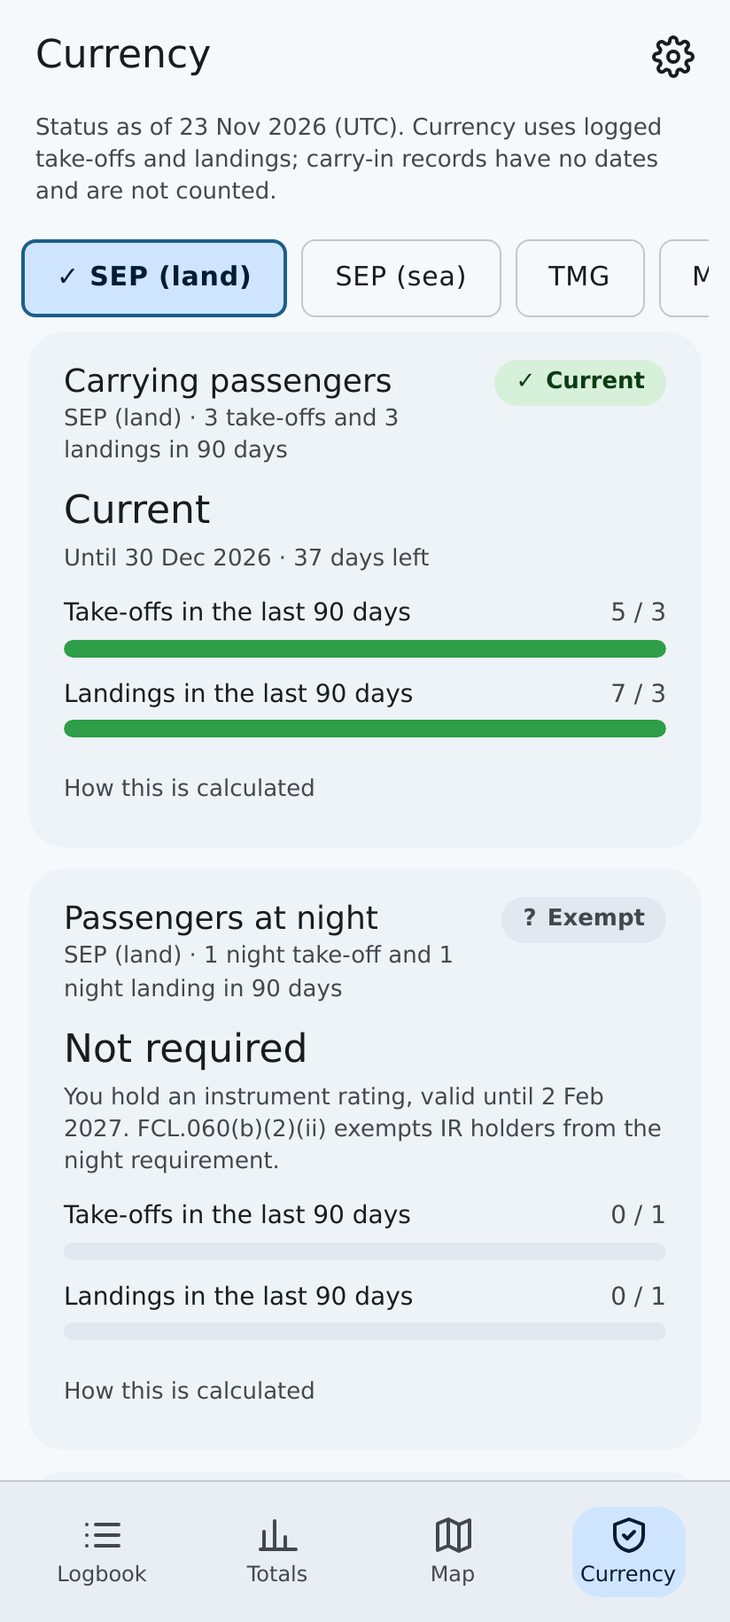
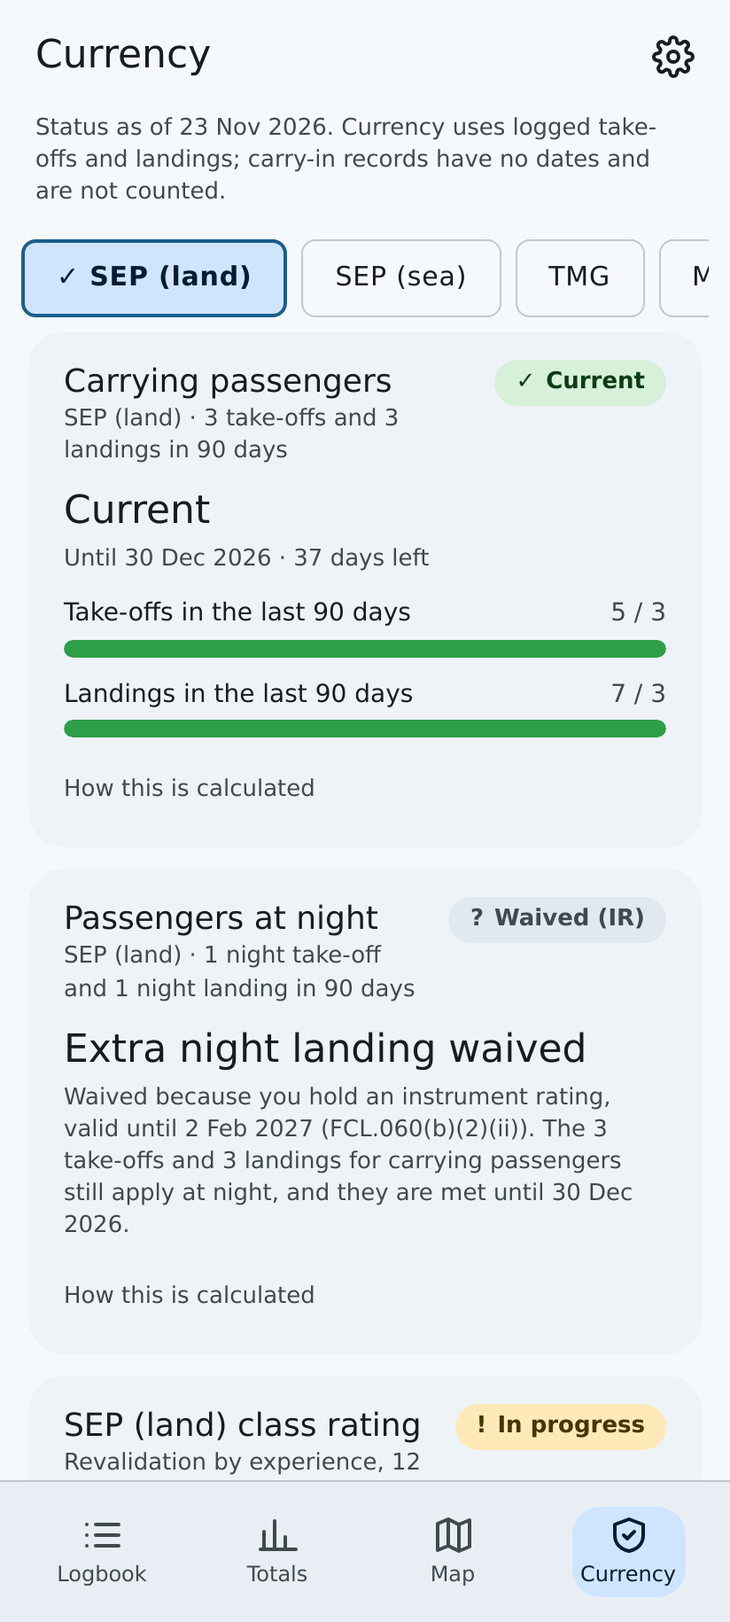
README and known issues: correct what the review found; new screenshots
From re-checking the README against the code and the EASA text:
- Route sectors: FCL.010 defines them; the paragraph saying Part-FCL
  never does is replaced by how marking works. Same for the type-rating
  sectors, the MEP alert, and known-issues.md.
- The "checked word by word on 23 November" claim is replaced by what
  was re-checked on 24 November, against which revision.
- "Each is noted on the card it would belong to" was false for the
  instructor and examiner certificates, mountain rating and towing;
  it now says which are noted and where, plus FCL.060(b)(4) and (c).
- Part-FCL does name some class ratings (FCL.740.A).
- Node: Vite 8 needs 20.19+ or 22.12+, not "20 or newer".
- PICUS/SPIC time goes in the PIC column and is marked in the remarks.
- The IR waives only the extra night landing (passengers at night,
  alerts); a backup sign-in is never "silent"; an import fills empty
  settings while "replace everything" restores them.
- New "Route sector" bullet under Logging a flight.

The screenshots predated the night-card rewording, the take-off and
landing icons and route sectors; the currency caption described a
lapsed night currency the image never showed. Regenerated with the
documented steps (same three Commons photos, so the credits stand);
captions rewritten from the new images. pdf-logbook.png is unchanged:
nothing here changes the PDF.

Claude-Session: https://claude.ai/code/session_01G3EEp2Uvip7EYmMHXPEuAB

diff --git a/README.md b/README.md
@@ -10,17 +10,17 @@ The Android phone is the master logbook; the same app in a desktop browser is a 
 **The regulatory numbers are checked against the EASA text** — see [Totals and currency](#totals-and-currency) for what was checked, against which revision, and what the app still cannot know.
 
 ## Screenshots
-Every screenshot shows an **invented** logbook: a fictional pilot, with flights, times, remarks and people that are made up. The airports and routes are real. Night time and the day/night take-offs and landings were calculated by the app itself, and the currency and rating states are the app's own, not mock-ups &mdash; the demo logbook is seeded so that SEP (land) has its revalidation experience met, MEP (land) has its proficiency-check window open, SET (land) has expired, a valid instrument rating makes night currency not required, two type ratings sit at different stages, and the medical is inside its 45-day revalidation window. **Flight, Totals, Map and Alerts are in dark mode and the map is on "Aviation magenta"**, so the theme setting and the map colour options are visible rather than just described; the rest are light.
+Every screenshot shows an **invented** logbook: a fictional pilot, with flights, times, remarks and people that are made up. The airports and routes are real. Night time and the day/night take-offs and landings were calculated by the app itself, and the currency and rating states are the app's own, not mock-ups &mdash; the demo logbook is seeded so that SEP (land) has its revalidation experience met, MEP (land) has its proficiency-check window open, SET (land) has expired, a valid instrument rating waives the extra night landing, the cross-country multi-engine and King Air flights are marked as route sectors, two type ratings sit at different stages, and the medical is inside its 45-day revalidation window. **Flight, Totals, Map and Alerts are in dark mode and the map is on "Aviation magenta"**, so the theme setting and the map colour options are visible rather than just described; the rest are light.
 
 They are all **reproducible**: `scripts/make-demo-logbook.ts` writes the logbook from a fixed seed, and `scripts/make-screenshots.mjs` drives a real build of the app in headless Chromium with the clock pinned to the demo's date, so re-running them gives the same images. See [Regenerating the screenshots](#regenerating-the-screenshots). The aircraft photos are real ones the app looked up on Wikimedia Commons, under free licences, credited [below](#photo-credits).
 
 | Logbook | Flight | New flight |
 |---|---|---|
-| <img src="docs/screenshots/logbook.png" alt="Logbook list with total hours, flight count and recent flights" width="260"> | <img src="docs/screenshots/flight.png" alt="Detail of one flight: route, times, PIC time, take-offs, landings and night time" width="260"> | <img src="docs/screenshots/new-flight.png" alt="New flight form with off-blocks, on-blocks and total time filled in, and the airport names looked up" width="260"> |
+| <img src="docs/screenshots/logbook.png" alt="Logbook list with total hours, flight count and recent flights" width="260"> | <img src="docs/screenshots/flight.png" alt="Detail of one flight: route, times, PIC time flown as student pilot-in-command, take-offs and landings" width="260"> | <img src="docs/screenshots/new-flight.png" alt="New flight form with off-blocks, on-blocks and total time filled in, and the airport names looked up" width="260"> |
 | **Totals** | **Currency** | **Map** |
-| <img src="docs/screenshots/totals.png" alt="Totals: flight time, pilot function breakdown and simulator time" width="260"> | <img src="docs/screenshots/currency.png" alt="Currency for SEP (land): passengers current, night currency lapsed, with the one night take-off and landing the regulation requires" width="260"> | <img src="docs/screenshots/map.png" alt="Map of airports and routes flown, on the built-in basemap" width="260"> |
+| <img src="docs/screenshots/totals.png" alt="Totals: flight time, pilot function breakdown and simulator time" width="260"> | <img src="docs/screenshots/currency.png" alt="Currency for SEP (land): passengers current, and the extra night landing waived by a valid instrument rating, with the passenger requirement it does not waive" width="260"> | <img src="docs/screenshots/map.png" alt="Map of airports and routes flown, on the built-in basemap" width="260"> |
 | **Class rating revalidation** | **Your licence** | **Alerts** |
-| <img src="docs/screenshots/currency-rating.png" alt="MEP (land) class rating: proficiency check due, with the route-sector counter at 2 of 10" width="260"> | <img src="docs/screenshots/licence.png" alt="Your licence section: instrument rating with its check window open, two type ratings with separate expiry dates, and the medical certificate" width="260"> | <img src="docs/screenshots/alerts.png" alt="Settings: alerts for currency and ratings switched on, with the night-currency option and a test notification button" width="260"> |
+| <img src="docs/screenshots/currency-rating.png" alt="MEP (land) class rating: proficiency check due, with 2 of the 10 route sectors marked and the FCL.010 definition" width="260"> | <img src="docs/screenshots/licence.png" alt="Your licence section: instrument rating with its check window open, and a type rating with its route sectors and the one flight not yet marked" width="260"> | <img src="docs/screenshots/alerts.png" alt="Settings: alerts for currency and ratings switched on, with the night-currency option and a test notification button" width="260"> |
 | **Holder details for the PDF** | | |
 | <img src="docs/screenshots/export.png" alt="Export screen: holder name, licence number and address, and the Create PDF button" width="260"> | | |
 
@@ -56,7 +56,7 @@ Because those two screenshots contain the photos in changed form, **`docs/screen
 `flight.png` holds only the Cessna, which is already CC BY-SA 4.0. `logbook.png` also holds the Archer, which is CC BY-SA 2.0, and 4.0 is the one licence that covers the mixture: [CC BY-SA 2.0 §4(b)](https://creativecommons.org/licenses/by-sa/2.0/legalcode) lets a derivative work be distributed under "a later version of this License with the same License Elements", and CC BY-SA 4.0 is exactly that (Attribution, ShareAlike).
 
 ## Setup
-Node 20 or newer (Vite 8 and TypeScript 7; CI uses Node 20).
+Node 20.19+ or 22.12+ (what Vite 8 requires; CI uses Node 20, which resolves to the latest 20.x).
 ```
 npm install
 npm run dev          # http://localhost:5173
@@ -76,8 +76,9 @@ Copy `.env.example` to `.env.local` to override `VITE_BASE` (default `/`) or set
 ## Logging a flight
 - **All times are UTC** (off-blocks / on-blocks). The take-off date is the date column of the logbook. The **landing date** follows automatically: the same day, or the next day when the on-blocks time is earlier than off-blocks (the flight crossed midnight UTC). It can be set by hand for anything else (a flight over 24 h gets a warning; a landing before take-off is refused). Saved flights that landed on a later UTC date show **+1** after the landing time.
 - **Aircraft are remembered by registration.** Typing a registration you have flown fills in make, model, variant, class and pilot-time category. Each flight keeps its own copy of those details; the remembered ones follow the aircraft's most recent flight, so correcting an old entry never changes what is filled in today. There are no suggestion lists: a new flight starts with the last aircraft, the last pilot in command and "From" set to where the last flight landed.
-- **Classes**: SEP (land/sea), TMG, MEP (land/sea), SET (single-engine turbine, land/sea) and Other. Those seven are exactly the aeroplane class ratings in the EASA [Class and Type Rating & Licence Endorsement List](https://www.easa.europa.eu/en/downloads/11737/en) (Part-FCL only refers to class ratings, it never names them); "Other" is for type-rated aeroplanes and anything that is not an aeroplane class rating. A class that contradicts the pilot-time category (an MEP flight logged as single-engine, or a single-engine class logged as multi-engine) gets a warning, never a block.
-- **Pilot function**: PIC / COPI / DUAL / INS chips (selected ones are filled and ticked); their time defaults to the total. The chips and +/− counters do not take the focus from a text field, so one tap works while the keyboard is open.
+- **Classes**: SEP (land/sea), TMG, MEP (land/sea), SET (single-engine turbine, land/sea) and Other. Those seven are exactly the aeroplane class ratings in the EASA [Class and Type Rating & Licence Endorsement List](https://www.easa.europa.eu/en/downloads/11737/en) (Part-FCL names some of them in passing, in FCL.740.A, but never lists them all); "Other" is for type-rated aeroplanes and anything that is not an aeroplane class rating. A class that contradicts the pilot-time category (an MEP flight logged as single-engine, or a single-engine class logged as multi-engine) gets a warning, never a block.
+- **Pilot function**: PIC / COPI / DUAL / INS chips (selected ones are filled and ticked); their time defaults to the total. The chips and +/− counters do not take the focus from a text field, so one tap works while the keyboard is open. PICUS and SPIC time is entered as PIC (AMC1 FCL.050), countersigned in the remarks; the form says so when PICUS or SPIC is ticked without PIC.
+- **Route sector**: on a multi-engine or type-rated flight, a toggle records that the flight was a route sector as FCL.010 defines one (take-off to landing with at least 15 minutes of cruise). The logbook does not record the cruise, so this is never guessed; see [route sectors](#totals-and-currency) below.
 
 ## Install on Android
 Open the deployed HTTPS URL in Chrome → ⋮ menu → **Install app** (or "Add to Home screen"). It then starts full-screen and works offline.
@@ -94,21 +95,21 @@ On first start choose **This device is the master logbook**; the app then asks t
 Setup: [docs/google-cloud-setup.md](docs/google-cloud-setup.md) (consent screen in Testing mode, you as test user, every hosting origin as an authorised JavaScript origin). The client ID goes in `VITE_GOOGLE_CLIENT_ID`.
 - **Device roles are explicit** (Settings → "This device is the master logbook"), never inferred from screen size. Only the master can edit, and only the master writes to Drive. A viewer is built with a read-only Drive client that has no write operations at all.
 - **One master only.** The master keeps `master.json` (device id, name, claim time) in the "Logbook backups" folder. Taking the role from another device shows who holds it and requires explicit confirmation. If Drive holds a *newer snapshot from another device*, the dialog recommends restoring it first, because taking over with older data would make the older data the newest backup. Before every backup the master re-reads `master.json`; if another device has taken over, nothing is written and a banner offers "Take over again" or "Make this device a viewer".
-- **Backups** are timestamped JSON snapshots carrying the schema version (`flightbook-snapshot-YYYYMMDDTHHMMSSZ.json`); one is kept per day (the last of that day), for the 30 most recent days that have one, so a busy evening of edits leaves one file rather than pushing the older days out, and a few weeks without flying never empties the history. Only files with that exact naming are ever deleted. They run on app open (if the last success is over 24 h old), about 20 s after you save changes (a burst of edits makes one backup), when the connection returns, and from "Backup now". The last successful time is shown in Settings. If Google needs a sign-in that cannot be silent, a banner offers "Sign in and back up".
+- **Backups** are timestamped JSON snapshots carrying the schema version (`flightbook-snapshot-YYYYMMDDTHHMMSSZ.json`); one is kept per day (the last of that day), for the 30 most recent days that have one, so a busy evening of edits leaves one file rather than pushing the older days out, and a few weeks without flying never empties the history. Only files with that exact naming are ever deleted. They run on app open (if the last success is over 24 h old), about 20 s after you save changes (a burst of edits makes one backup), when the connection returns, and from "Backup now". The last successful time is shown in Settings. When Google needs you to sign in again, a banner offers "Sign in and back up".
 - **Restore** (master): pick a snapshot, see exactly what would be added, changed and removed, then either replace everything or only add what is missing. Replacing first saves a copy of what is on the device to Drive (`flightbook-prerestore-…`, last 5 kept) and is one all-or-nothing transaction. Those safety copies are listed in the same dialog under **Undo a restore**, so a mistaken restore can be reversed from inside the app.
 - **Viewer**: loads the newest snapshot, runs schema migrations in memory, and shows the list, totals, currency and PDF/CSV export with all editing hidden. A banner reads "Read-only — snapshot from <time>, <device>" with Refresh. The last downloaded snapshot is cached on the device so it opens instantly and offline. The viewer never writes to Drive or changes a snapshot.
 - **Limits**: access tokens last about an hour and the pop-up that renews them needs a tap (see the guide). The app never opens it by itself: a backup or refresh that finds no valid token waits and shows a button instead; in Testing mode Google may ask you to approve again about weekly. This was verified against a fake Google and Drive in two browsers plus a third device; the first real run with your client ID is the part only you can do.
 
 ## Export, import and backup (Settings → Export, import & backup)
 - **PDF logbook**: A4 landscape, the full AMC1 FCL.050 structure — the holder block, all twelve numbered column groups in one table with flights and simulator sessions interleaved by date, per-page totals, totals brought forward (page 1 starts from your previous experience), to-date totals, and a signature/date line. The layout is a pure specification (`src/domain/pdfLayout.ts`: columns, widths, pagination, totals) that the renderer (`src/features/export/pdfRender.ts`) only draws; its printed totals are tested against the Totals screen. Characters the built-in PDF font cannot show are replaced (accents dropped, `Ł`→`L`, otherwise `?`) and cut-off text is shortened; both are counted and reported after creation, and the full text stays in the CSV/JSON. pdf-lib is loaded only when a PDF is created.
-  - **Checked against AMC1 FCL.050 "Pilot logbook"** (ED Decision 2025/022/R, in the [Easy Access Rules for Aircrew](https://www.easa.europa.eu/en/document-library/easy-access-rules/online-publications/easy-access-rules-aircrew), October 2026 revision). All twelve numbered column groups and their order match, as do the three totals rows (TOTAL THIS PAGE / TOTAL FROM PREVIOUS PAGES / TOTAL TIME); PICUS/SPIC go in the remarks and take-offs are not printed because the AMC has no column for either.
+  - **Checked against AMC1 FCL.050 "Pilot logbook"** (ED Decision 2025/022/R, in the [Easy Access Rules for Aircrew](https://www.easa.europa.eu/en/document-library/easy-access-rules/online-publications/easy-access-rules-aircrew), October 2026 revision). All twelve numbered column groups and their order match, as do the three totals rows (TOTAL THIS PAGE / TOTAL FROM PREVIOUS PAGES / TOTAL TIME); PICUS and SPIC time goes in the PIC column, as the AMC asks, and is marked PICUS or SPIC in the remarks, where the AMC wants it countersigned; take-offs are not printed because the AMC has no column for them.
   - **Simulator sessions share the flight table**, as column 11 (FSTD SESSION: date, type, total time of session), which is where the AMC puts them. A session is a row that fills only that group and the remarks, so sessions and flights read as one chronological sequence and session time is totalled in its own column — it can never leak into TOTAL TIME OF FLIGHT.
   - **The holder block** (holder's name(s), licence number, address) is filled in on the Export screen and printed on every page, rather than once on an inside cover, so a loose sheet still identifies its holder. A field you leave empty prints as a blank rule to complete by hand.
   - Fitting all of that on A4 landscape leaves 106 pt for remarks, so text is shrunk, wrapped and finally cut with an ellipsis — and every cut is counted and reported after the PDF is made, with the full text kept in the CSV and JSON exports. `NAME(S) OF PIC` is sized so that even a long surname wraps instead of being cut, since it is a required column; there is a test for it.
   - `TODO(verify)`: FCL.050 only requires the record to be kept "in a form and manner established by the competent authority", and this AMC is one acceptable means rather than the only one — check what your own authority requires before treating the printout as your logbook of record. The AMC header reads `DATE (dd/mm/yy)` where this prints 4-digit years, deliberately.
 - **CSV** (flights, simulator sessions, previous experience; one file each): spreadsheet-friendly and **round-trip exact** (tested with hostile text). Durations are `H:MM`, times are UTC ISO 8601, booleans `yes`/`no`, overrides `;`-separated. Text beginning with `= + - @` is written with a leading apostrophe so a spreadsheet cannot execute it, and the apostrophe is removed again on import. Import accepts files from elsewhere too (required columns: `date, dep_place, dep_time_utc, arr_place, arr_time_utc, registration, make, model, class, total, pic_name`); missing ids and timestamps are generated, a missing single/multi-pilot split is taken as single-pilot SE, and unused columns are listed, never silently dropped. Attachments cannot be held by CSV.
 - **JSON backup**: the holder's details (name, licence number, address) and everything in the logbook, plus a schema version (`SNAPSHOT_SCHEMA_VERSION`, with an in-memory migration chain used by restore and by the read-only viewer). It excludes the airports database, the photo cache and device settings (device name, master role, theme). A backup from a newer app version is refused, not guessed at.
-- **Import and restore never overwrite silently.** Every record is classified before anything is written: *new*, *already there* (identical), *duplicate* (same flight under another id, or repeated in the file: skipped) or *conflict* (same id, different content: you choose to keep yours, the default, or replace). Invalid rows are listed with their line number and why; they block the import until you agree to skip them. The whole import is one transaction: if anything fails, nothing is written. Aircraft and people are matched by registration and name (ids are not carried across devices); restored settings only fill in values that are still empty.
+- **Import and restore never overwrite silently.** Every record is classified before anything is written: *new*, *already there* (identical), *duplicate* (same flight under another id, or repeated in the file: skipped) or *conflict* (same id, different content: you choose to keep yours, the default, or replace). Invalid rows are listed with their line number and why; they block the import until you agree to skip them. The whole import is one transaction: if anything fails, nothing is written. Aircraft and people are matched by registration and name (ids are not carried across devices). An import only fills in settings that are still empty; "replace everything" restores them as they are in the backup.
 
 ## Map (bottom bar → Map)
 Airports are circles with the number of flights that started or ended there (a local flight counts once); lines are the great-circle routes between airports, in either direction, thicker when flown more often. Airports and routes come in six colours (Settings → Map colours: blue, aviation magenta, amber, crimson, ink, teal), each with a light and a dark variant; a unit test checks every option stays readable against land, sea and the number inside the circle. Tap an airport for its name and connections (the map moves it clear of the details card); drag, pinch or scroll to move and zoom; "show all" re-frames everything. A date range (all time, this year, 12 months, 90 days) filters it. Flights whose airport is not in the airports database cannot be drawn as routes; they are listed, and any airport that is known is still counted.
@@ -122,7 +123,7 @@ Airports are circles with the number of flights that started or ended there (a l
 - **Currency** (bottom bar → Currency), per aircraft class, with progress bars and a green / amber / red status (never colour alone: an icon and a word too). Currency counts dated flights only.
   - Counted **per type or class**, as FCL.060(b) puts it. For a class rating that is the class; for a type-rated aeroplane it is the **type rating you picked when logging the flight**, because landings in a King Air say nothing about currency on a 737. Flights in the Other class that name no rating you hold (none was picked, or the rating has since been removed) are listed rather than quietly counted towards nothing.
   - **Carrying passengers**: 3 take-offs and 3 landings in the last 90 days.
-  - **Passengers at night**: 1 night take-off and 1 night landing in the last 90 days &mdash; unless you hold an instrument rating, which removes the requirement (FCL.060(b)(2)(ii)); see below.
+  - **Passengers at night**: 1 night take-off and 1 night landing in the last 90 days, on top of the 3 above &mdash; unless you hold an instrument rating, which waives that extra night landing (FCL.060(b)(2)(ii)) but not the 3; see below.
   - **Class rating revalidation**, driven by the expiry date you enter per class:
     - *by experience* for SEP (land), SEP (sea) and TMG — 12 h in the class in the 12 months before expiry, of which 6 h as PIC, plus 12 take-offs, 12 landings and an hour of refresher training with an instructor;
     - *by proficiency check* for MEP (land/sea) and SET (land/sea) — there is no experience route for these, so the card tracks the 3-month check window instead, and for MEP also the 10 route sectors (see below);
@@ -139,17 +140,17 @@ Airports are circles with the number of flights that started or ended there (a l
     - Stored as **a class and a date, nothing else**. Conditions, limitations and findings would be health data under Article 9 GDPR; there is deliberately nowhere to put them, and a test fails if such a field ever appears.
   - **Type ratings**, as a list: a pilot may hold several and each expires on its own date, so they are not another entry in the class table. FCL.740.A(a) covers "multi-engine class ratings **and type ratings**" together, so the check window is the one already used for MEP; FCL.740(a)(1) makes them valid 1 year *unless the operational suitability data says otherwise*, which for many types it does &mdash; so you enter the date from your licence and the app never works it out. Flights in a type-rated aeroplane are still logged under the **Other** class.
     - Each flight in a type-rated aeroplane **names its rating**, picked on the flight form (and remembered per registration, like make and model). That is what makes per-type currency possible: it is recorded rather than guessed from the model, because one rating covers several models and a guess that misses is a currency silently undercounted.
-    - Because the link is recorded, the **route sectors** of FCL.740.A(a)(2) are counted for type ratings too, on the same two readings as MEP.
+    - Because the link is recorded, the **route sectors** of FCL.740.A(a)(2) are counted for type ratings too, from the flights you mark as route sectors, as for MEP.
     - The **Other** chip appears as soon as you hold a type rating, and shows one compact card per rating, headed by its name, with its passenger and night currency: flown or not, so a rating with no flights yet reads as not current, the same way an empty class does. While a valid IR makes night currency unnecessary, that is said once below the cards instead of on each. An expired rating gets no card, since it cannot be used; it is named in one line instead. (The alerts, as for classes, only follow currencies you have flights for.)
     - **Removing a rating asks first**, whether from "Remove rating" or by clearing its date. The dialog says how many flights are logged under it: they stop counting and are listed as flights without a type rating until you pick one again, and adding the rating back does not reconnect them, because it gets a new id.
   - **Language proficiency endorsement** (FCL.055): level 4 is re-evaluated every 4 years, level 5 every 6, and level 6 never &mdash; so a level 6 endorsement reports "no re-evaluation needed" rather than pretending to a date. Without a valid endorsement you may not use the radio, and so may not exercise the licence at all, which is why it is watched as closely as the medical.
-- **Every regulatory number lives in `src/domain/rules.ts`**, each with the point it comes from, so a correction is a one-line change. They were checked word by word on 23 November 2026 against FCL.060, FCL.740 and FCL.740.A in the **[EASA Easy Access Rules for Aircrew](https://www.easa.europa.eu/en/document-library/easy-access-rules/online-publications/easy-access-rules-aircrew)** (Regulation (EU) No 1178/2011, revision from October 2026, carrying the amendments of Regulation (EU) 2024/2076). Cards whose rule is not verified show an "Unverified rule" label; none of the currency rules do any more.
+- **Every regulatory number lives in `src/domain/rules.ts`**, each with the point it comes from, so a correction is a one-line change. They were re-checked on 24 November 2026 against the **[EASA Easy Access Rules for Aircrew](https://www.easa.europa.eu/en/document-library/easy-access-rules/online-publications/easy-access-rules-aircrew)** (Regulation (EU) No 1178/2011): FCL.060, FCL.055, FCL.625 and FCL.740 in the revision from October 2026; FCL.740.A, the FCL.010 definitions, MED.A.045 and AMC1 FCL.050 in the [paginated edition](https://www.easa.europa.eu/document-library/easy-access-rules/online-publications/easy-access-rules-aircrew-regulation-eu-no?page=5) (revision from August 2023), the only one whose text could be read for those. An earlier check had missed that FCL.010 defines "route sector". Cards whose rule is not verified show an "Unverified rule" label; none of the currency rules do.
   - Check against EASA's own text, not a national library: the **UK CAA**'s retained FCL.740.A(b)(1)(ii) lets the 12 hours be spread over the whole validity period as long as 6 fall in the last 12 months, so the SEP figures here are wrong for a UK licence.
-  - What the app still cannot know is listed on each card under "How this is calculated" and in the `todo` of each rule: the logbook records no "pilot flying" flag (so every logged take-off and landing is counted), simulator take-offs and landings are never counted although the rule allows them, DUAL time stands in for the refresher flight with an FI or CRI, the app does not know where your IR checks were flown so it cannot track that at least every other one is in an aeroplane (FCL.625.A(a)(4)), and previous-experience carry-ins have no dates so they never count.
-- **"Route sector" is not defined in Part-FCL.** FCL.740.A(a)(2) asks for 10 of them and never says what one is. The only definition EASA gives anywhere is in Part-ORO, ORO.FTL.105: the segment between an aircraft first moving to take off and coming to rest after landing — one flight, with no requirement that it end somewhere else. But "route" is usually read as a flight from one aerodrome to another, which would leave local flying out. The app therefore shows **both** counts, flights in the class and the subset that landed away, and the status follows the stricter one: it can tell you that you are short when you are not, never the reverse.
-- The MEP rating **alert** reflects the sector shortfall, not just the expiry date. The sectors have to be flown across the whole validity period, so the moment to act is early; an alert that only woke up when the check window opened was silent for ten months and then warned you with six weeks left. It goes amber once past halfway and behind the pace — amber and not red, because the examiner alternative in (a)(2)(ii) and the commercial-operator exemption in (a)(3) are both invisible to the logbook.
+  - What the app still cannot know is listed on each card under "How this is calculated" and in the `todo` of each rule: every logged take-off and landing is counted although the rule wants them as pilot flying (which is how the AMC logbook records landings, so log only the ones you flew), simulator take-offs and landings are never counted although the rule allows them, DUAL time stands in for the refresher flight with an FI or CRI, the app does not know where your IR checks were flown so it cannot track that at least every other one is in an aeroplane (FCL.625.A(a)(4)), and previous-experience carry-ins have no dates so they never count.
+- **Route sectors are what FCL.010 says, and you mark them.** FCL.740.A(a)(2) asks for 10 route sectors per validity period for a multi-engine class or a type rating, and FCL.010 defines one: "a flight comprising take-off, departure, cruise of not less than 15 minutes, arrival, approach and landing phases". So a local flight can be one and a short hop to the next aerodrome may not be, and the logbook, which records block times but not the cruise, cannot tell. Only the flights you mark as route sectors on the form count; the card lists the period's unmarked flights under a fold, each opening the form and coming back to the card. (An earlier version guessed from whether the flight landed elsewhere, which could count a hop that was not a sector.)
+- The MEP rating **alert** reflects the shortfall in marked sectors, not just the expiry date, and says how many flights in the period are still unmarked. The sectors have to be flown across the whole validity period, so the moment to act is early; an alert that only woke up when the check window opened was silent for ten months and then warned you with six weeks left. It goes amber once past halfway and behind the pace — amber and not red, because the examiner alternative in (a)(2)(ii) and the commercial-operator exemption in (a)(3) are both invisible to the logbook.
 - A flight logged in the **Other** class without a type rating you hold counts towards nothing, so it is never left to vanish: the Currency screen lists these flights (each one opens straight into its edit form to pick the rating), the logbook marks them **No type rating**, the flight itself says so, and the alerts count them. That includes a flight whose rating was removed later, or that came in from a backup of a logbook whose ratings had other ids.
-- Not modelled: instructor and examiner certificates (FCL.940, FCL.1025 &mdash; 3 years each), the mountain rating (FCL.815) and towing privileges (FCL.805); the BIR (FCL.835), the IR(H)/IR(As) variants, and the FCL.625(d) rule that an IR unused for 7 years needs the theory exam and skill test again &mdash; the app does not know your rating history. Each is noted on the card it would belong to.
+- Not modelled: instructor and examiner certificates (FCL.940, FCL.1025 &mdash; 3 years each), the mountain rating (FCL.815) and towing privileges (FCL.805); the BIR (FCL.835), the IR(H)/IR(As) variants, and the FCL.625(d) rule that an IR unused for 7 years needs the theory exam and skill test again &mdash; the app does not know your rating history. The last three are noted on the instrument rating card; the others appear nowhere in the app. FCL.060(b)(4) (recent experience credited between similar types through the OSD) and FCL.060(c) (120 days in commercial air transport under supervision) are noted on the passenger card.
 - Day-count boundaries are conservative (an event counts on its own day and the 89 days after). "Today" is the later of your local date and the UTC date, so in no time zone does a medical, rating or currency read as valid after the day it ends. The amber and "urgent" thresholds — 14 days before a rolling currency lapses, 60 days for unmet revalidation experience, 30 days for an outstanding proficiency check — are app choices, not regulation. So is the reminder once the revalidation experience **is** met: with 30 days or fewer left the card and the alert turn amber and ask you to have the revalidation entered in your licence, because the logbook cannot see that it has been, and until a new expiry date is entered the old one is the one that counts.
 
 ## Alerts (Settings → Alerts for currency and ratings)
@@ -158,7 +159,7 @@ An optional notification when something gets **worse**: a currency or class rati
 - Turning it on asks the browser for notification permission and then **seeds** today's levels without notifying, so switching it on never floods you with things you can already see on the Currency screen.
 - Each change notifies **once**: the levels last seen are stored in settings (`alertState`) and only a step for the worse fires. An improvement is remembered too, so a later worsening notifies again. The level is stored *before* the notification is shown, so a blocked notification cannot make the same alert fire on every check.
 - Checked when you open the app and when it comes back to the front. Where the browser supports **periodic background sync** (Chrome on Android, app installed) it is also checked about once a day in the background, from the service worker; Settings says which of the two you are getting.
-- Night currency can be left out, for a pilot holding an instrument rating (FCL.060(b)(2)(ii) exempts them).
+- Night currency alerts stop by themselves while an instrument rating is valid, since it waives the extra night landing (FCL.060(b)(2)(ii)); the switch leaves them out for any other reason. Passenger currency, which applies at night too, is always watched.
 - There is a "Send a test notification" button. It needs a registered service worker, so it does nothing under `npm run dev` — use `npm run build && npm run preview`.
 
 ## Privacy policy and GDPR

diff --git a/docs/known-issues.md b/docs/known-issues.md
@@ -28,13 +28,16 @@ What the logbook cannot know or does not track is listed per rule in the `todo` 
 `src/domain/rules.ts`, and shown on the matching card under "How this is calculated". That file is the source
 of truth; the main ones:
 
-- There is no "pilot flying" flag, so every logged take-off and landing counts towards recent experience.
+- Every logged take-off and landing counts towards recent experience; the rule wants them as pilot flying, which is how the AMC logbook records landings, so log only the ones you flew.
 - Simulator (FFS) take-offs and landings never count, although FCL.060 allows them. Approaches are not recorded.
 - DUAL time stands in for the SEP/TMG refresher flight with an FI or CRI.
 - SEP/TMG revalidation counts the selected class only; combined SEP/TMG or land/sea holdings are not modelled.
-- "Route sector" is not defined in Part-FCL, so both readings are shown and the stricter one sets the status.
-  The one-sector-with-an-examiner alternative is not tracked, and for type ratings the 12-month window assumes
-  the default 1-year validity rather than one set by the OSD.
+- Route sectors (FCL.010: take-off to landing with at least 15 minutes of cruise) count only when you mark
+  them on the flight form: the logbook does not record the cruise. The one-sector-with-an-examiner
+  alternative is not tracked, and for type ratings the 12-month window assumes the default 1-year validity
+  rather than one set by the OSD.
+- Not modelled: recent experience credited between similar types through the OSD (FCL.060(b)(4)), and the
+  120-day extension in commercial air transport (FCL.060(c)).
 - The app never works out a validity period itself (medical, type rating, language endorsement): you enter the
   date from your licence. Medical age-band edges are explained on the card but not checked.
 - The figures are EASA's; a UK CAA licence follows different wording.
